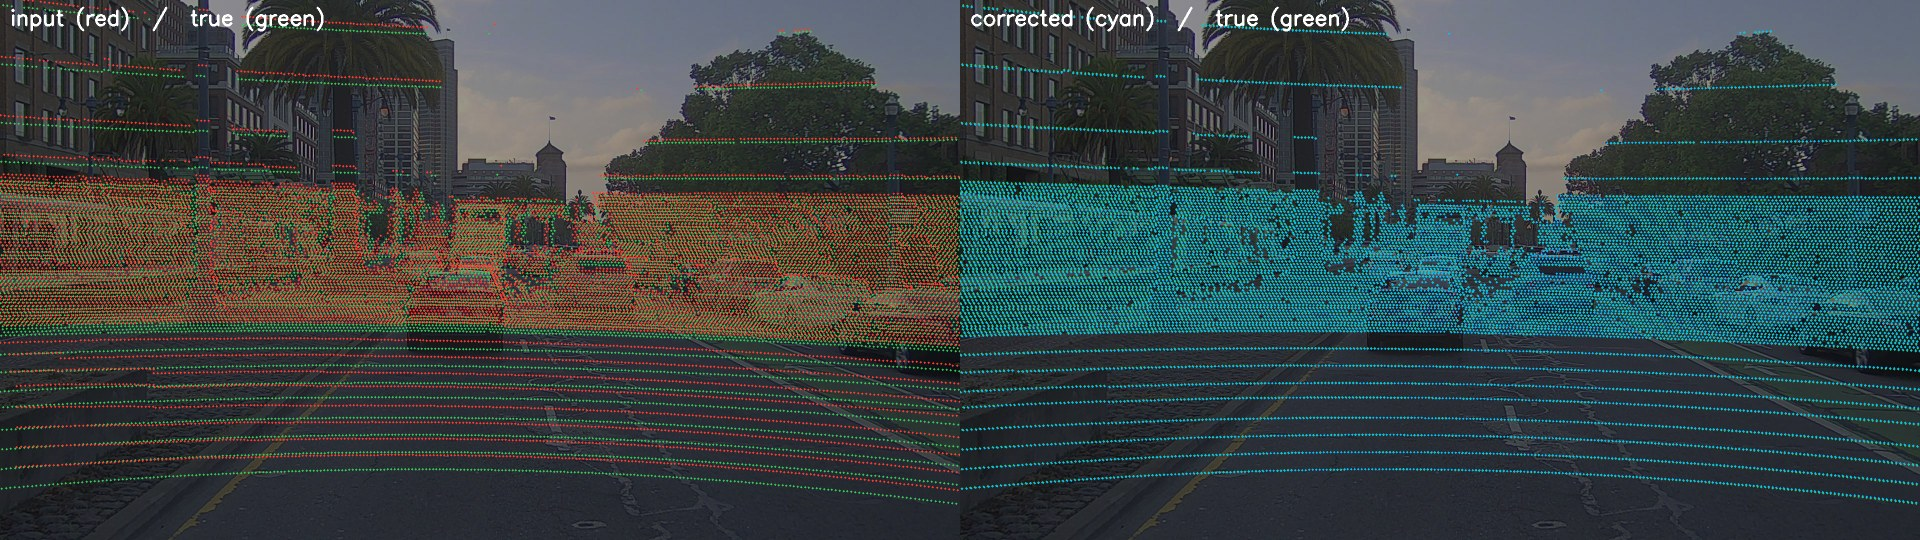
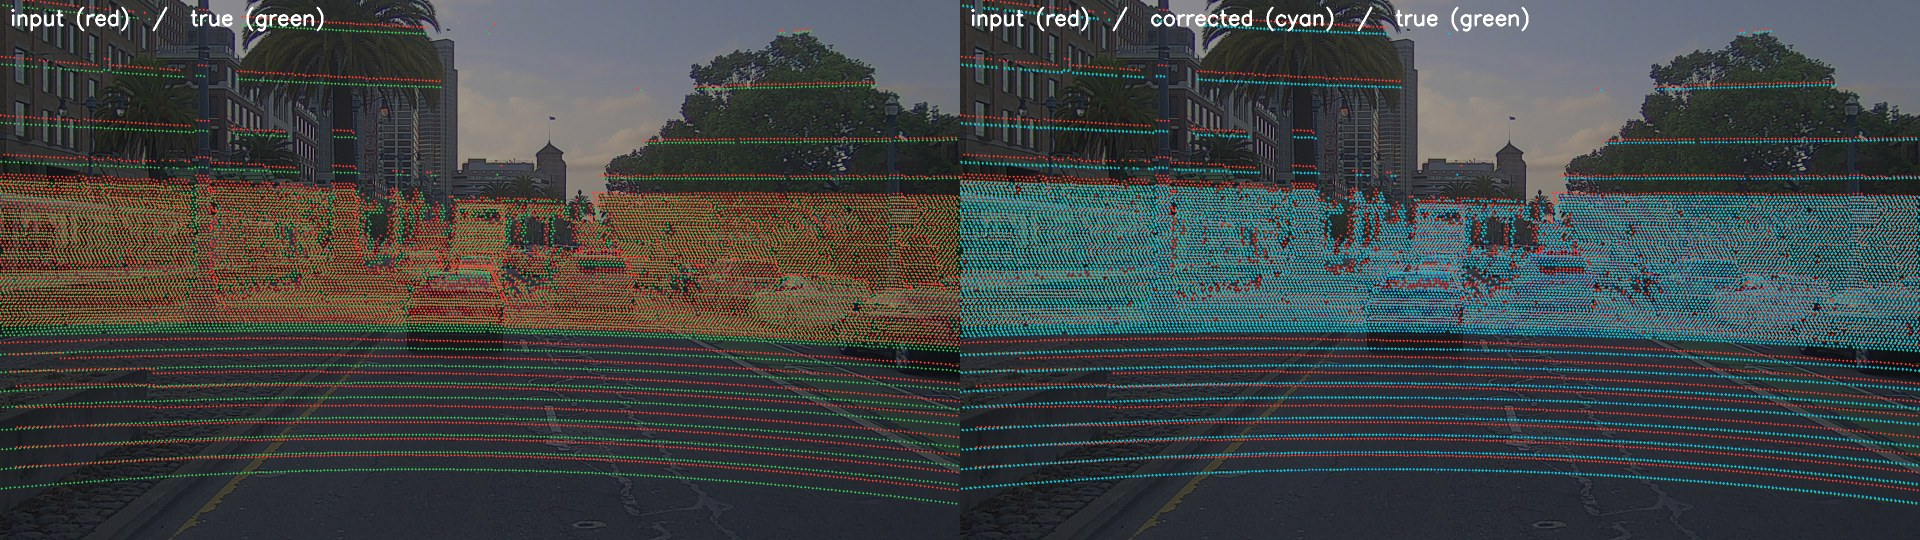
補正後の図にずらした入力の点も重ねる。nuScenes+PandaSet 段 1 の起動スクリプト

diff --git a/scripts/inference/infer_calib.py b/scripts/inference/infer_calib.py
@@ -240,7 +240,8 @@ def load_pandaset_val(i: int, cache: str = PS_CACHE):
 
 def render_overlay(img, pts, K, poses: dict, dist=None, is_fisheye=False) -> np.ndarray:
     """画像に、各ポーズで投影した LiDAR の点を重ねて保存する。
-    poses の色: true=緑, input=赤, corrected=水色。左右に 2 枚 (入力 / 補正後) 並べ、どちらにも正解を薄く重ねる。"""
+    poses の色: true=緑, input=赤, corrected=水色。左右に 2 枚 (入力 / 補正後) 並べ、どちらにも正解を重ねる。
+    右 (補正後) には入力も重ね、赤→水色でどれだけ動いたかを見せる。"""
     from scripts.util.projection import project_lidar_into_image
     IH, IW = img.shape[:2]
     col = {'true': (52, 199, 89), 'input': (255, 59, 48), 'corrected': (0, 194, 255)}
@@ -251,11 +252,12 @@ def render_overlay(img, pts, K, poses: dict, dist=None, is_fisheye=False) -> np.
     panels = []
     for name in [k for k in ('input', 'corrected') if k in poses]:
         p = base.copy()
-        layers = (['true'] if 'true' in poses else []) + [name]
+        layers = (['input'] if name == 'corrected' and 'input' in poses else []) + \
+                 (['true'] if 'true' in poses else []) + [name]
         for k in layers:
             for u, v in proj(poses[k]).astype(int):
                 cv2.circle(p, (int(u), int(v)), 2, col[k], -1)
-        cv2.putText(p, {'input': 'input (red)', 'corrected': 'corrected (cyan)'}[name] +
+        cv2.putText(p, {'input': 'input (red)', 'corrected': 'input (red)  /  corrected (cyan)'}[name] +
                     ('  /  true (green)' if 'true' in poses else ''),
                     (20, 50), cv2.FONT_HERSHEY_SIMPLEX, 1.4, (255, 255, 255), 3)
         panels.append(p)

diff --git a/docs/2026-10-08_pandaset-calib-fixes.md b/docs/2026-10-08_pandaset-calib-fixes.md
@@ -111,7 +111,7 @@ python scripts/inference/infer_calib.py ps_s2_own24_rt --image image.jpg --point
 
 ### 直す前後（CLI）
 
-PandaSet の val を番号で選び、ずらして直し、重ねた図を保存する。図の左が補正前（赤＝ずらしたポーズ、緑＝正しいポーズ）、右が補正後（水色＝補正後、緑＝正しいポーズ）。
+PandaSet の val を番号で選び、ずらして直し、重ねた図を保存する。図の左が補正前（赤＝ずらしたポーズ、緑＝正しいポーズ）、右が補正後（赤＝ずらしたポーズ、緑＝正しいポーズ、水色＝補正後。水色を一番上に描くので、緑と重なったところは水色だけ見える）。
 
 ```bash
 python scripts/inference/infer_calib.py ps_s2_own24_rt --pandaset-val 123 \
@@ -133,7 +133,7 @@ val 250、ずれあり:
 
 ![](_figs/2026-10-08/cli_val250_shift.jpg)
 
-val 123、ずれあり（API の `/api/pandaset/eval_image` で同じ条件を呼んだ画像も、これとバイト単位で同じ）:
+val 123、ずれあり（API の `/api/pandaset/eval_image` も同じ関数 `render_overlay` で描く）:
 
 ![](_figs/2026-10-08/cli_val123_shift.jpg)
 
